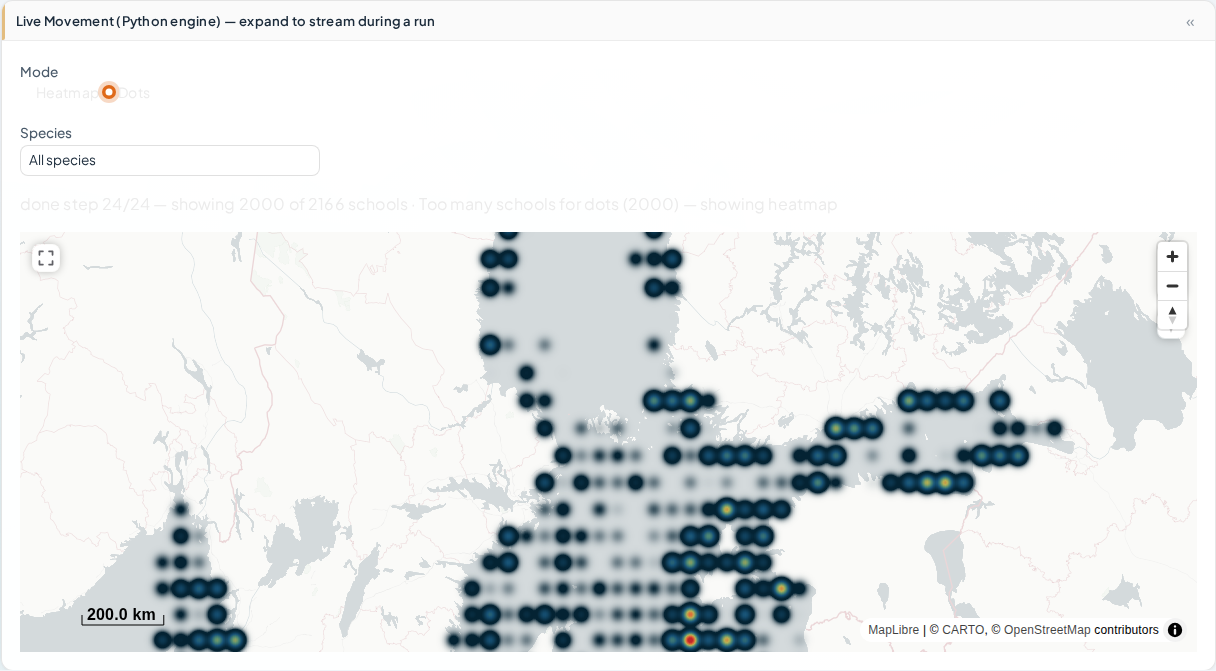
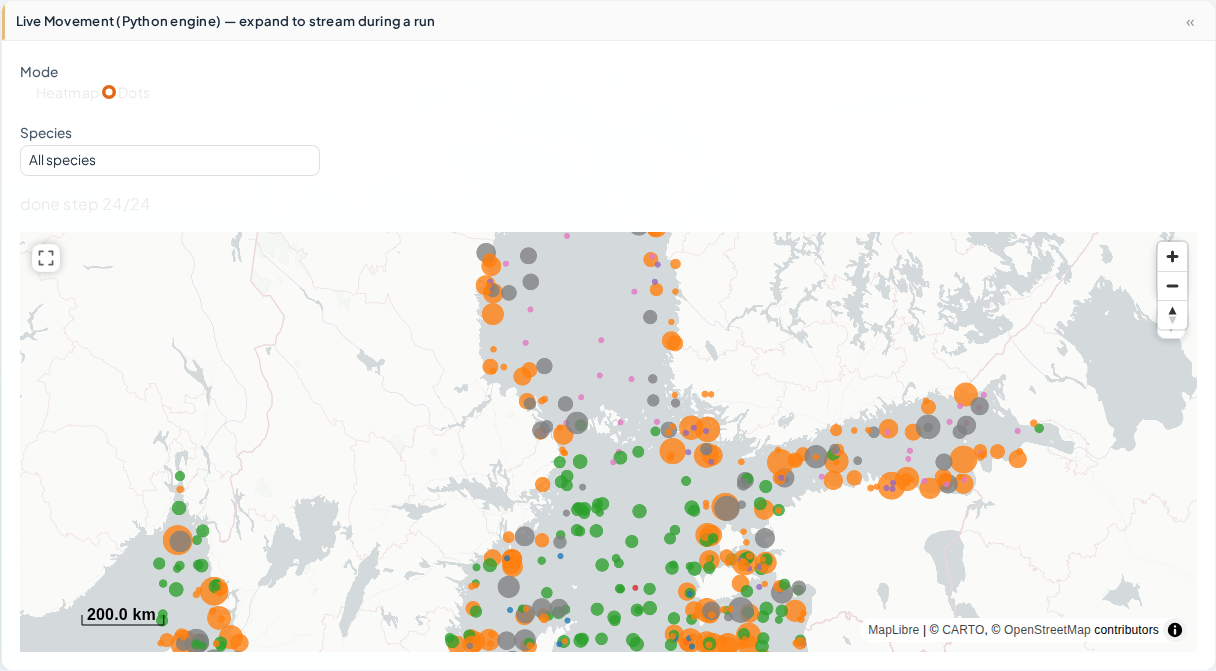
docs(readme): fix dots screenshot (was a heatmap) + clearer caption
The previous 'dots' shot fell back to a heatmap: choose_live_layer caps
per-point dots at 1500 and the full Baltic samples to 2000 pts. Recaptured
with the live mode set BEFORE the run (deck.gl renders the scatterplot from
frame 1 — a reactive layer swap blanks the canvas headless) and nschool
halved so all-species dots stay under the cap. Now genuinely distinct.

diff --git a/README.md b/README.md
@@ -133,7 +133,7 @@ Three ready-to-run configurations ship in-tree.
 
 The Baltic example is the newest and most documented. It covers cod, herring, sprat, flounder, perch, pikeperch, smelt, stickleback plus six CMEMS-forced LTL groups, 50 × 40 cells over 10–30° E × 54–66° N, 24 dt/yr.
 
-**Live movement during a run.** The Run page streams every timestep of a Python-engine simulation onto the map — toggle between an aggregated density **heatmap** and individual **dots** coloured by species. Below is the Baltic ecosystem at the end of a 1-year run (216k schools sampled to 2 000 points):
+**Live movement during a run.** The Run page streams every timestep of a Python-engine simulation onto the map — toggle between an aggregated density **heatmap** and individual **dots** coloured by species. Below is the Baltic ecosystem (8 fish species over the 50 × 40-cell domain) at the end of a 1-year run:
 
 <table>
   <tr>
